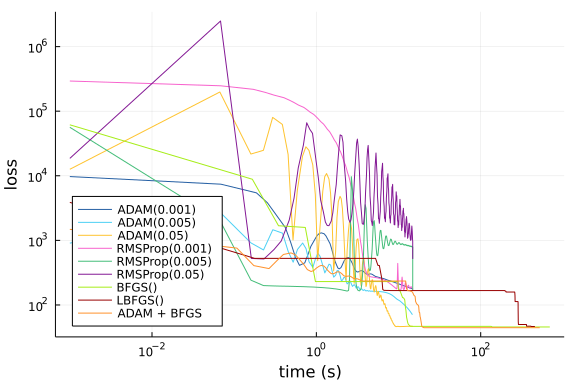
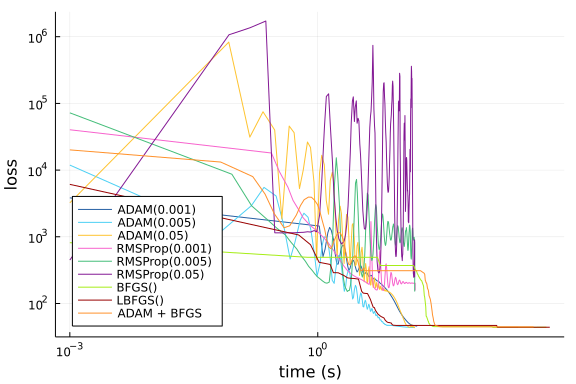
Automatic build\nPublished by build of: https://github.com/SciML/SciMLBenchmarks.jl/commit/61c047455ef7845709acad38f267d75462b74631

diff --git a/markdown/PINNOptimizers/1d_poisson_nernst_planck.md b/markdown/PINNOptimizers/1d_poisson_nernst_planck.md
@@ -115,17 +115,17 @@ function solve(opt)
     dim = length(domains)
     output = length(eqs)
     neurons = 16
-    chain1 = Lux.Chain( Lux.Dense(dim, neurons, Lux.σ),
-                        Lux.Dense(neurons, neurons, Lux.σ),
-                        Lux.Dense(neurons, neurons, Lux.σ),
+    chain1 = Lux.Chain( Lux.Dense(dim, neurons, tanh),
+                        Lux.Dense(neurons, neurons, tanh),
+                        Lux.Dense(neurons, neurons, tanh),
                         Lux.Dense(neurons, 1))
-    chain2 = Lux.Chain( Lux.Dense(dim, neurons, Lux.σ),
-                        Lux.Dense(neurons, neurons, Lux.σ),
-                        Lux.Dense(neurons, neurons, Lux.σ),
+    chain2 = Lux.Chain( Lux.Dense(dim, neurons, tanh),
+                        Lux.Dense(neurons, neurons, tanh),
+                        Lux.Dense(neurons, neurons, tanh),
                         Lux.Dense(neurons, 1))
-    chain3 = Lux.Chain( Lux.Dense(dim, neurons, Lux.σ),
-                        Lux.Dense(neurons, neurons, Lux.σ),
-                        Lux.Dense(neurons, neurons, Lux.σ),
+    chain3 = Lux.Chain( Lux.Dense(dim, neurons, tanh),
+                        Lux.Dense(neurons, neurons, tanh),
+                        Lux.Dense(neurons, neurons, tanh),
                         Lux.Dense(neurons, 1))
 
     discretization = PhysicsInformedNN([chain1, chain2, chain3], strategy)
@@ -221,17 +221,17 @@ loss_9, times_9 = solve("both")
 ```
 
 ```
-(Any[1483.5392488968714, 759.9081831071553, 406.76289940650804, 366.0442149
-35007, 488.4432428548247, 605.9085352608415, 640.2213210776215, 594.9537493
-373421, 507.10791577367957, 416.9042050405642  …  44.529161815309514, 44.52
-920625798524, 44.529249124846295, 44.52929000103637, 44.52933193733544, 44.
-52937367847553, 44.529418137179434, 44.529455072515766, 44.52949945860023, 
-44.529540250654264], Any[0.001, 0.10782599449157715, 0.17357802391052246, 0
-.2653660774230957, 0.33257603645324707, 0.39787912368774414, 0.491873979568
-48145, 0.5574831962585449, 0.6228771209716797, 0.7103960514068604  …  485.1
-464641094208, 489.4114911556244, 493.531681060791, 497.69201707839966, 501.
-8743941783905, 506.0322861671448, 510.2100601196289, 514.3033971786499, 518
-.4639229774475, 522.6489059925079])
+(Any[20102.35444399695, 13212.57211623435, 7983.143309624558, 4361.57879621
+4006, 2226.5416058990436, 1365.4960819974544, 1462.2027212859969, 2120.3018
+64363247, 2938.1097337272768, 3602.1932894065326  …  44.512631590182096, 44
+.51267569382645, 44.512719056981084, 44.512763405498816, 44.512807461458785
+, 44.51285153610368, 44.51289437358338, 44.51293661718919, 44.5129766217081
+84, 44.51301890679737], Any[0.001, 0.06683707237243652, 0.16351914405822754
+, 0.23041200637817383, 0.29721498489379883, 0.39128708839416504, 0.45774912
+83416748, 0.5507221221923828, 0.6178159713745117, 0.6844780445098877  …  37
+1.53962302207947, 375.92034101486206, 379.9217131137848, 384.0860869884491,
+ 388.1792540550232, 392.51245617866516, 396.84283995628357, 401.16160607337
+95, 405.18982696533203, 409.20486402511597])
 ```
 
 
@@ -258,12 +258,12 @@ p = plot([loss_1, loss_2, loss_3, loss_4, loss_5, loss_6, loss_7, loss_8, loss_9
 
 ```
 (loss_1[end], loss_2[end], loss_3[end], loss_4[end], loss_5[end], loss_6[en
-d], loss_7[end], loss_8[end], loss_9[end]) = (177.77300255882764, 70.735868
-87189241, 46.25825630570205, 169.93170082271956, 164.44646111530403, 515.86
-49533473031, 45.67725984891665, 46.46134199792748, 44.529540250654264)
-(177.77300255882764, 70.73586887189241, 46.25825630570205, 169.931700822719
-56, 164.44646111530403, 515.8649533473031, 45.67725984891665, 46.4613419979
-2748, 44.529540250654264)
+d], loss_7[end], loss_8[end], loss_9[end]) = (45.726912337143084, 43.602064
+192774634, 43.3510959633791, 156.25733150836902, 151.0043607643847, 247.430
+34976989645, 43.98026907309236, 44.00327143519049, 44.51301890679737)
+(45.726912337143084, 43.602064192774634, 43.3510959633791, 156.257331508369
+02, 151.0043607643847, 247.43034976989645, 43.98026907309236, 44.0032714351
+9049, 44.51301890679737)
 ```
 
 
